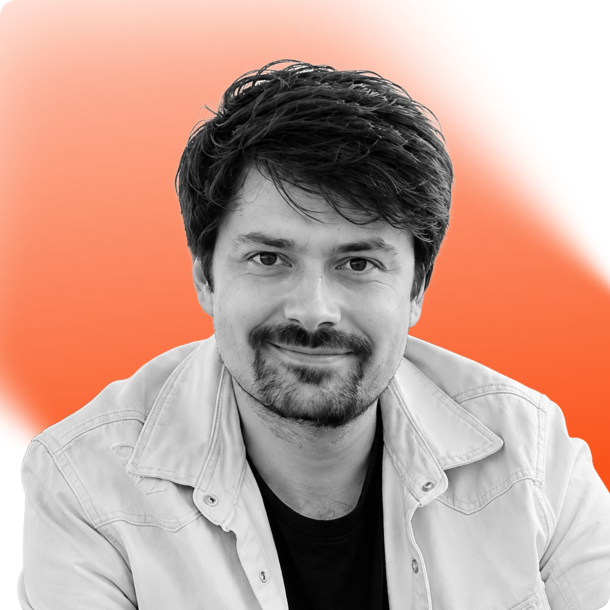
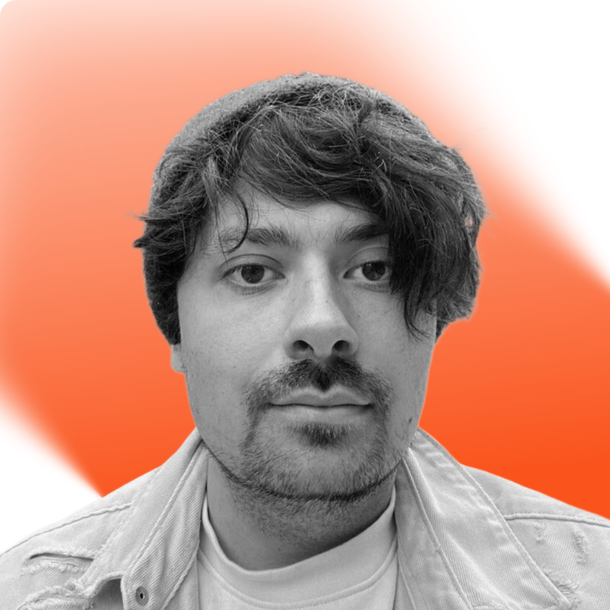
added the speakers Chloe and Josef and updated the position of the speakers to reflect on this

diff --git a/index.html b/index.html
@@ -316,6 +316,34 @@
 
               <article class="speaker-card">
                 <div class="speaker-media">
+                  <img src="images/speakers/chloe-hodgson-2026.png" alt="Chloe Hodgson">
+                </div>
+                <div class="speaker-info">
+                  <div>
+                    <h3>Chloe Hodgson</h3>
+                    <p>UX Designer</p>
+                    <p class="speaker-company">Freelance</p>
+                  </div>
+                  <img class="speaker-card-arrow" src="images/arrow-up.svg" alt="" aria-hidden="true">
+                </div>
+              </article>
+
+              <article class="speaker-card">
+                <div class="speaker-media">
+                  <img src="images/speakers/jozef-kulik-speaker-list-2026.png" alt="Józef Kulik">
+                </div>
+                <div class="speaker-info">
+                  <div>
+                    <h3>Józef Kulik</h3>
+                    <p>Senior Researcher and<br>Accessibility Lead</p>
+                    <p class="speaker-company">PlaytestCloud</p>
+                  </div>
+                  <img class="speaker-card-arrow" src="images/arrow-up.svg" alt="" aria-hidden="true">
+                </div>
+              </article>
+
+              <article class="speaker-card">
+                <div class="speaker-media">
                   <img src="images/speakers/abhishek-agarwal-2026.png" alt="Abhishek Agarwal">
                 </div>
                 <div class="speaker-info">
@@ -336,34 +364,6 @@
                   <div>
                     <h3>Lydia Ho Lee Wei</h3>
                     <p>Game and Narrative Designer</p>
-                  </div>
-                  <img class="speaker-card-arrow" src="images/arrow-up.svg" alt="" aria-hidden="true">
-                </div>
-              </article>
-
-              <article class="speaker-card" hidden>
-                <div class="speaker-media">
-                  <img src="images/speakers/jozef-kulik-speaker-list-2026.png" alt="Józef Kulik">
-                </div>
-                <div class="speaker-info">
-                  <div>
-                    <h3>Józef Kulik</h3>
-                    <p>Senior Research and<br>Accessibility Lead</p>
-                    <p class="speaker-company">PlaytestCloud</p>
-                  </div>
-                  <img class="speaker-card-arrow" src="images/arrow-up.svg" alt="" aria-hidden="true">
-                </div>
-              </article>
-
-              <article class="speaker-card" hidden>
-                <div class="speaker-media">
-                  <img src="images/speakers/chloe-hodgson-2026.png" alt="Chloe Hodgson">
-                </div>
-                <div class="speaker-info">
-                  <div>
-                    <h3>Chloe Hodgson</h3>
-                    <p>UX Designer</p>
-                    <p class="speaker-company">Freelance</p>
                   </div>
                   <img class="speaker-card-arrow" src="images/arrow-up.svg" alt="" aria-hidden="true">
                 </div>
